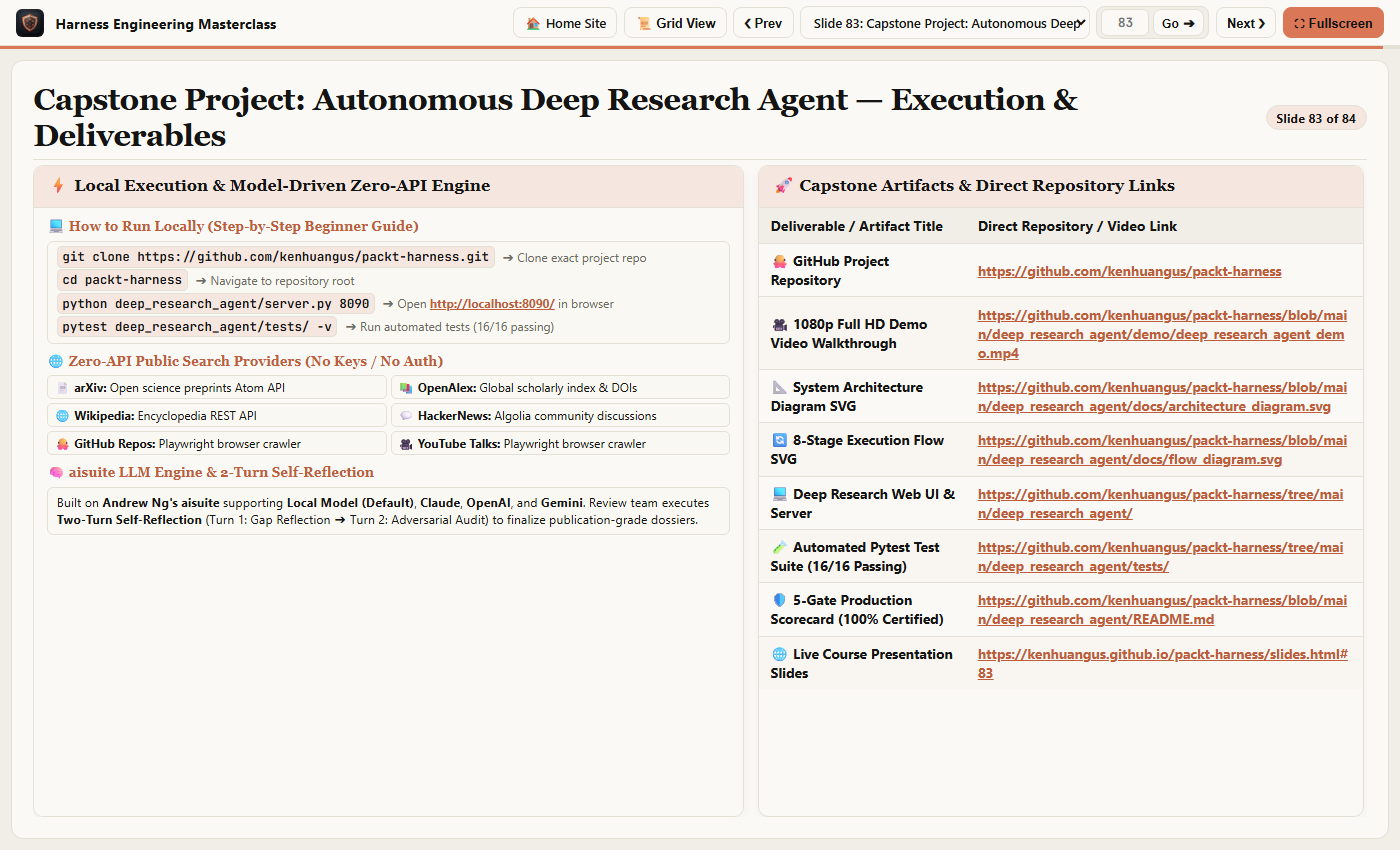
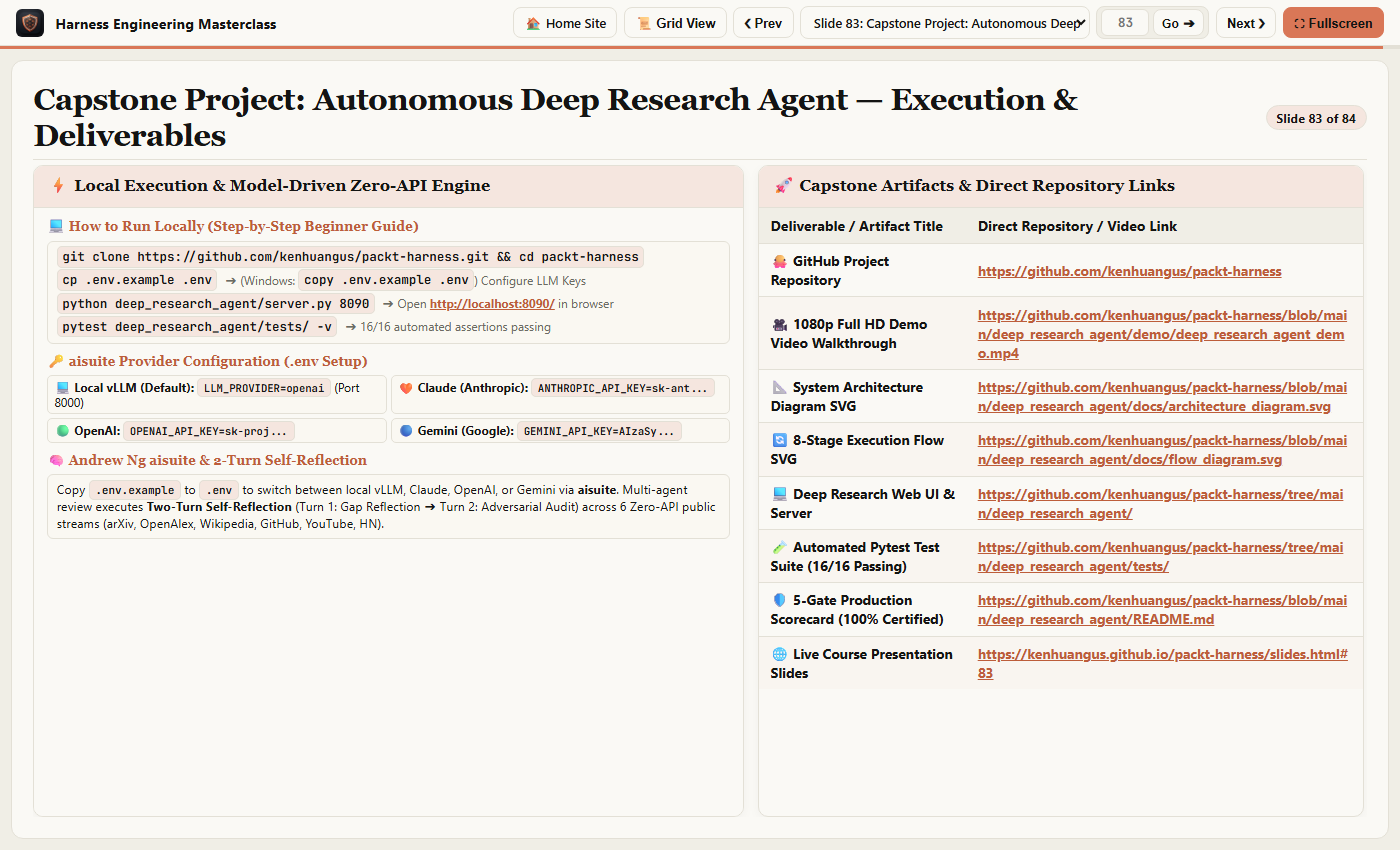
Update Slide 83 with .env.example setup instructions and aisuite provider configuration for OpenAI, Claude, and Gemini

Changed region(s): [[0.0307, 0.3671, 0.5221, 0.6424], [0.0614, 0.2753, 0.4607, 0.3365]]

diff --git a/docs/slides.html b/docs/slides.html
@@ -1490,29 +1490,27 @@
                 <div class="capstone-section">
                   <div class="capstone-section-title">💻 How to Run Locally (Step-by-Step Beginner Guide)</div>
                   <div class="capstone-cmd-box">
-                    <div><code>git clone https://github.com/kenhuangus/packt-harness.git</code> <span class="cmd-note">➔ Clone exact project repo</span></div>
-                    <div><code>cd packt-harness</code> <span class="cmd-note">➔ Navigate to repository root</span></div>
+                    <div><code>git clone https://github.com/kenhuangus/packt-harness.git &amp;&amp; cd packt-harness</code></div>
+                    <div><code>cp .env.example .env</code> <span class="cmd-note">➔ (Windows: <code>copy .env.example .env</code>) Configure LLM Keys</span></div>
                     <div><code>python deep_research_agent/server.py 8090</code> <span class="cmd-note">➔ Open <a href="http://localhost:8090/" target="_blank" rel="noopener noreferrer">http://localhost:8090/</a> in browser</span></div>
-                    <div><code>pytest deep_research_agent/tests/ -v</code> <span class="cmd-note">➔ Run automated tests (16/16 passing)</span></div>
+                    <div><code>pytest deep_research_agent/tests/ -v</code> <span class="cmd-note">➔ 16/16 automated assertions passing</span></div>
                   </div>
                 </div>
 
                 <div class="capstone-section">
-                  <div class="capstone-section-title">🌐 Zero-API Public Search Providers (No Keys / No Auth)</div>
+                  <div class="capstone-section-title">🔑 aisuite Provider Configuration (.env Setup)</div>
                   <div class="capstone-providers-grid">
-                    <div class="provider-pill">📄 <strong>arXiv:</strong> Open science preprints Atom API</div>
-                    <div class="provider-pill">📚 <strong>OpenAlex:</strong> Global scholarly index &amp; DOIs</div>
-                    <div class="provider-pill">🌐 <strong>Wikipedia:</strong> Encyclopedia REST API</div>
-                    <div class="provider-pill">💬 <strong>HackerNews:</strong> Algolia community discussions</div>
-                    <div class="provider-pill">🐙 <strong>GitHub Repos:</strong> Playwright browser crawler</div>
-                    <div class="provider-pill">🎥 <strong>YouTube Talks:</strong> Playwright browser crawler</div>
+                    <div class="provider-pill">💻 <strong>Local vLLM (Default):</strong> <code>LLM_PROVIDER=openai</code> (Port 8000)</div>
+                    <div class="provider-pill">🧡 <strong>Claude (Anthropic):</strong> <code>ANTHROPIC_API_KEY=sk-ant...</code></div>
+                    <div class="provider-pill">🟢 <strong>OpenAI:</strong> <code>OPENAI_API_KEY=sk-proj...</code></div>
+                    <div class="provider-pill">🔵 <strong>Gemini (Google):</strong> <code>GEMINI_API_KEY=AIzaSy...</code></div>
                   </div>
                 </div>
 
                 <div class="capstone-section">
-                  <div class="capstone-section-title">🧠 aisuite LLM Engine &amp; 2-Turn Self-Reflection</div>
+                  <div class="capstone-section-title">🧠 Andrew Ng aisuite &amp; 2-Turn Self-Reflection</div>
                   <div class="capstone-text-desc">
-                    Built on <strong>Andrew Ng's aisuite</strong> supporting <strong>Local Model (Default)</strong>, <strong>Claude</strong>, <strong>OpenAI</strong>, and <strong>Gemini</strong>. Review team executes <strong>Two-Turn Self-Reflection</strong> (Turn 1: Gap Reflection ➔ Turn 2: Adversarial Audit) to finalize publication-grade dossiers.
+                    Copy <code>.env.example</code> to <code>.env</code> to switch between local vLLM, Claude, OpenAI, or Gemini via <strong>aisuite</strong>. Multi-agent review executes <strong>Two-Turn Self-Reflection</strong> (Turn 1: Gap Reflection ➔ Turn 2: Adversarial Audit) across 6 Zero-API public streams (arXiv, OpenAlex, Wikipedia, GitHub, YouTube, HN).
                   </div>
                 </div>
               </div>

diff --git a/slides.html b/slides.html
@@ -1490,29 +1490,27 @@
                 <div class="capstone-section">
                   <div class="capstone-section-title">💻 How to Run Locally (Step-by-Step Beginner Guide)</div>
                   <div class="capstone-cmd-box">
-                    <div><code>git clone https://github.com/kenhuangus/packt-harness.git</code> <span class="cmd-note">➔ Clone exact project repo</span></div>
-                    <div><code>cd packt-harness</code> <span class="cmd-note">➔ Navigate to repository root</span></div>
+                    <div><code>git clone https://github.com/kenhuangus/packt-harness.git &amp;&amp; cd packt-harness</code></div>
+                    <div><code>cp .env.example .env</code> <span class="cmd-note">➔ (Windows: <code>copy .env.example .env</code>) Configure LLM Keys</span></div>
                     <div><code>python deep_research_agent/server.py 8090</code> <span class="cmd-note">➔ Open <a href="http://localhost:8090/" target="_blank" rel="noopener noreferrer">http://localhost:8090/</a> in browser</span></div>
-                    <div><code>pytest deep_research_agent/tests/ -v</code> <span class="cmd-note">➔ Run automated tests (16/16 passing)</span></div>
+                    <div><code>pytest deep_research_agent/tests/ -v</code> <span class="cmd-note">➔ 16/16 automated assertions passing</span></div>
                   </div>
                 </div>
 
                 <div class="capstone-section">
-                  <div class="capstone-section-title">🌐 Zero-API Public Search Providers (No Keys / No Auth)</div>
+                  <div class="capstone-section-title">🔑 aisuite Provider Configuration (.env Setup)</div>
                   <div class="capstone-providers-grid">
-                    <div class="provider-pill">📄 <strong>arXiv:</strong> Open science preprints Atom API</div>
-                    <div class="provider-pill">📚 <strong>OpenAlex:</strong> Global scholarly index &amp; DOIs</div>
-                    <div class="provider-pill">🌐 <strong>Wikipedia:</strong> Encyclopedia REST API</div>
-                    <div class="provider-pill">💬 <strong>HackerNews:</strong> Algolia community discussions</div>
-                    <div class="provider-pill">🐙 <strong>GitHub Repos:</strong> Playwright browser crawler</div>
-                    <div class="provider-pill">🎥 <strong>YouTube Talks:</strong> Playwright browser crawler</div>
+                    <div class="provider-pill">💻 <strong>Local vLLM (Default):</strong> <code>LLM_PROVIDER=openai</code> (Port 8000)</div>
+                    <div class="provider-pill">🧡 <strong>Claude (Anthropic):</strong> <code>ANTHROPIC_API_KEY=sk-ant...</code></div>
+                    <div class="provider-pill">🟢 <strong>OpenAI:</strong> <code>OPENAI_API_KEY=sk-proj...</code></div>
+                    <div class="provider-pill">🔵 <strong>Gemini (Google):</strong> <code>GEMINI_API_KEY=AIzaSy...</code></div>
                   </div>
                 </div>
 
                 <div class="capstone-section">
-                  <div class="capstone-section-title">🧠 aisuite LLM Engine &amp; 2-Turn Self-Reflection</div>
+                  <div class="capstone-section-title">🧠 Andrew Ng aisuite &amp; 2-Turn Self-Reflection</div>
                   <div class="capstone-text-desc">
-                    Built on <strong>Andrew Ng's aisuite</strong> supporting <strong>Local Model (Default)</strong>, <strong>Claude</strong>, <strong>OpenAI</strong>, and <strong>Gemini</strong>. Review team executes <strong>Two-Turn Self-Reflection</strong> (Turn 1: Gap Reflection ➔ Turn 2: Adversarial Audit) to finalize publication-grade dossiers.
+                    Copy <code>.env.example</code> to <code>.env</code> to switch between local vLLM, Claude, OpenAI, or Gemini via <strong>aisuite</strong>. Multi-agent review executes <strong>Two-Turn Self-Reflection</strong> (Turn 1: Gap Reflection ➔ Turn 2: Adversarial Audit) across 6 Zero-API public streams (arXiv, OpenAlex, Wikipedia, GitHub, YouTube, HN).
                   </div>
                 </div>
               </div>

diff --git a/build_all_63_svg_slides.py b/build_all_63_svg_slides.py
@@ -1888,29 +1888,27 @@ html_template = '''<!DOCTYPE html>
                 <div class="capstone-section">
                   <div class="capstone-section-title">💻 How to Run Locally (Step-by-Step Beginner Guide)</div>
                   <div class="capstone-cmd-box">
-                    <div><code>git clone https://github.com/kenhuangus/packt-harness.git</code> <span class="cmd-note">➔ Clone exact project repo</span></div>
-                    <div><code>cd packt-harness</code> <span class="cmd-note">➔ Navigate to repository root</span></div>
+                    <div><code>git clone https://github.com/kenhuangus/packt-harness.git &amp;&amp; cd packt-harness</code></div>
+                    <div><code>cp .env.example .env</code> <span class="cmd-note">➔ (Windows: <code>copy .env.example .env</code>) Configure LLM Keys</span></div>
                     <div><code>python deep_research_agent/server.py 8090</code> <span class="cmd-note">➔ Open <a href="http://localhost:8090/" target="_blank" rel="noopener noreferrer">http://localhost:8090/</a> in browser</span></div>
-                    <div><code>pytest deep_research_agent/tests/ -v</code> <span class="cmd-note">➔ Run automated tests (16/16 passing)</span></div>
+                    <div><code>pytest deep_research_agent/tests/ -v</code> <span class="cmd-note">➔ 16/16 automated assertions passing</span></div>
                   </div>
                 </div>
 
                 <div class="capstone-section">
-                  <div class="capstone-section-title">🌐 Zero-API Public Search Providers (No Keys / No Auth)</div>
+                  <div class="capstone-section-title">🔑 aisuite Provider Configuration (.env Setup)</div>
                   <div class="capstone-providers-grid">
-                    <div class="provider-pill">📄 <strong>arXiv:</strong> Open science preprints Atom API</div>
-                    <div class="provider-pill">📚 <strong>OpenAlex:</strong> Global scholarly index &amp; DOIs</div>
-                    <div class="provider-pill">🌐 <strong>Wikipedia:</strong> Encyclopedia REST API</div>
-                    <div class="provider-pill">💬 <strong>HackerNews:</strong> Algolia community discussions</div>
-                    <div class="provider-pill">🐙 <strong>GitHub Repos:</strong> Playwright browser crawler</div>
-                    <div class="provider-pill">🎥 <strong>YouTube Talks:</strong> Playwright browser crawler</div>
+                    <div class="provider-pill">💻 <strong>Local vLLM (Default):</strong> <code>LLM_PROVIDER=openai</code> (Port 8000)</div>
+                    <div class="provider-pill">🧡 <strong>Claude (Anthropic):</strong> <code>ANTHROPIC_API_KEY=sk-ant...</code></div>
+                    <div class="provider-pill">🟢 <strong>OpenAI:</strong> <code>OPENAI_API_KEY=sk-proj...</code></div>
+                    <div class="provider-pill">🔵 <strong>Gemini (Google):</strong> <code>GEMINI_API_KEY=AIzaSy...</code></div>
                   </div>
                 </div>
 
                 <div class="capstone-section">
-                  <div class="capstone-section-title">🧠 aisuite LLM Engine &amp; 2-Turn Self-Reflection</div>
+                  <div class="capstone-section-title">🧠 Andrew Ng aisuite &amp; 2-Turn Self-Reflection</div>
                   <div class="capstone-text-desc">
-                    Built on <strong>Andrew Ng's aisuite</strong> supporting <strong>Local Model (Default)</strong>, <strong>Claude</strong>, <strong>OpenAI</strong>, and <strong>Gemini</strong>. Review team executes <strong>Two-Turn Self-Reflection</strong> (Turn 1: Gap Reflection ➔ Turn 2: Adversarial Audit) to finalize publication-grade dossiers.
+                    Copy <code>.env.example</code> to <code>.env</code> to switch between local vLLM, Claude, OpenAI, or Gemini via <strong>aisuite</strong>. Multi-agent review executes <strong>Two-Turn Self-Reflection</strong> (Turn 1: Gap Reflection ➔ Turn 2: Adversarial Audit) across 6 Zero-API public streams (arXiv, OpenAlex, Wikipedia, GitHub, YouTube, HN).
                   </div>
                 </div>
               </div>
